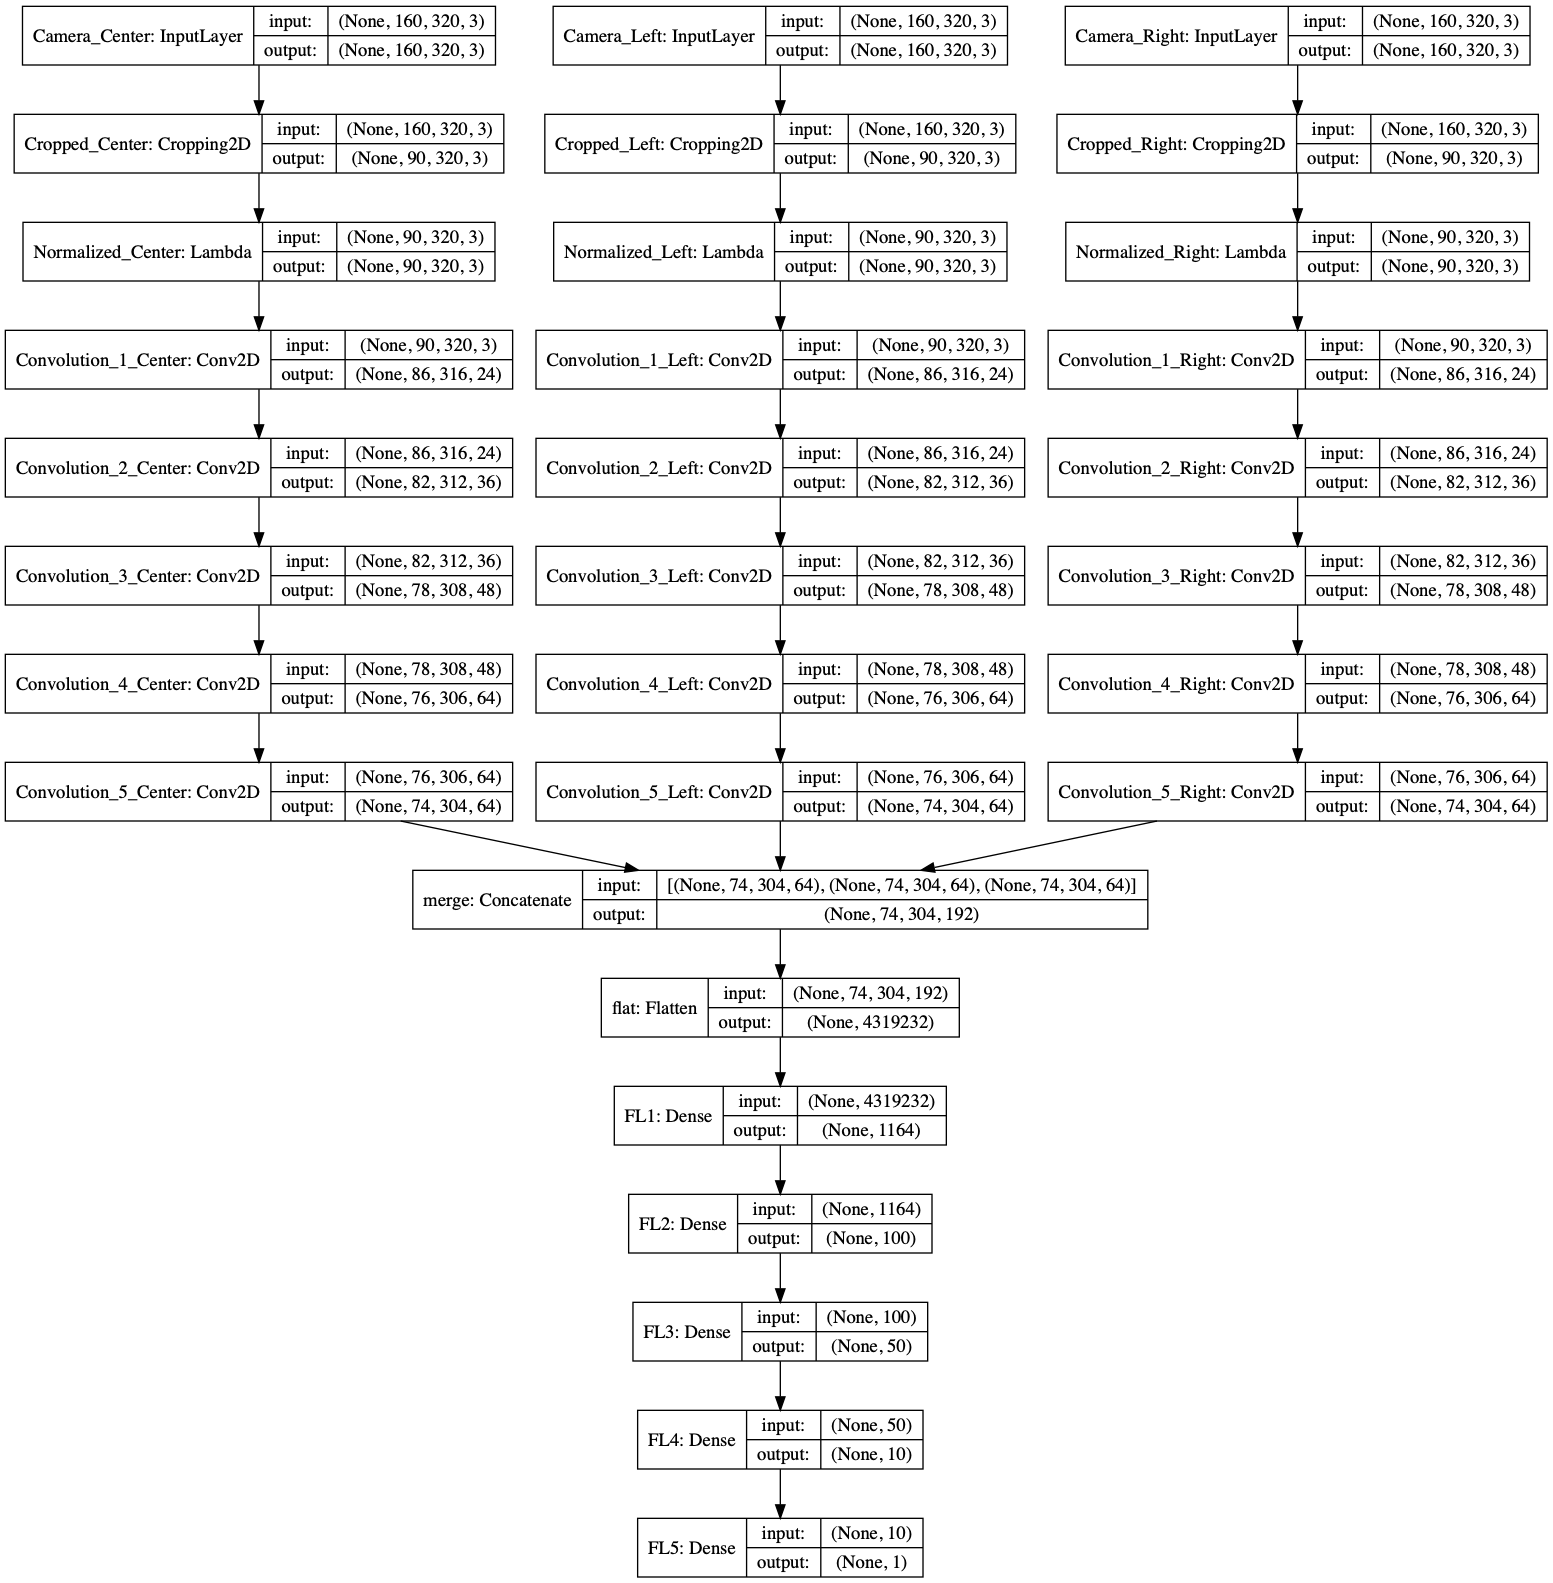
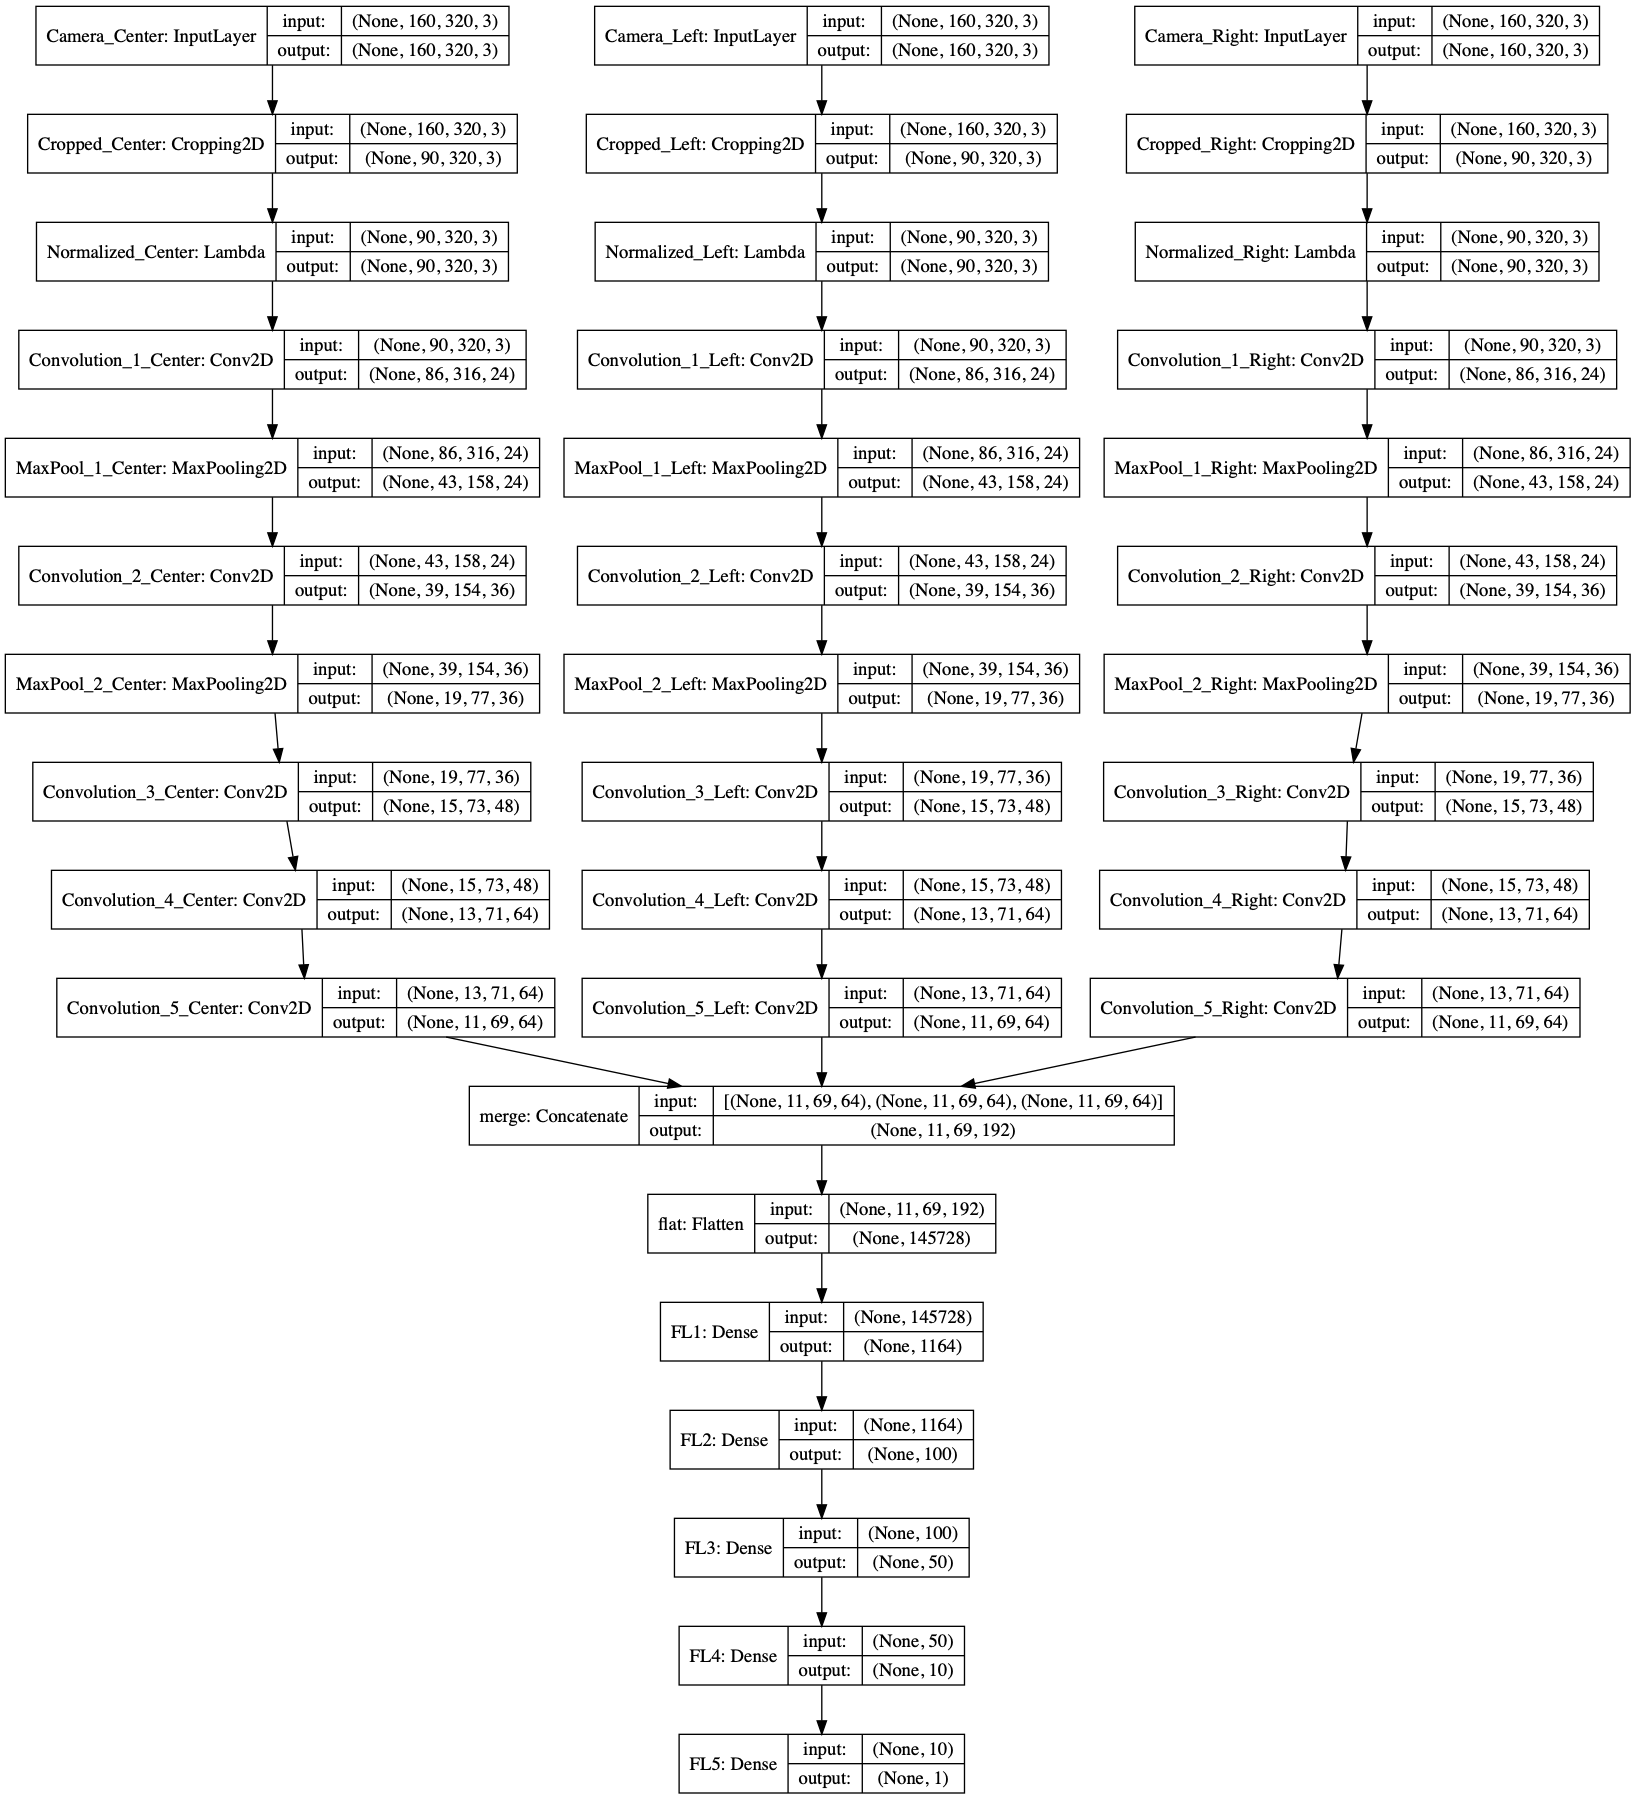
fix: Lighter network version so that the script doesn't crash

Changed region(s): [[0.0, 0.0, 1.0, 1.0]]

diff --git a/trainer.py b/trainer.py
@@ -46,7 +46,8 @@ print("---Behaviour Clonning Trainer Application---")
 
 #Load Data
 
-DATA_PATH = '/opt/carnd_p3/data/'
+#DATA_PATH = '/opt/carnd_p3/data/'
+DATA_PATH = '../data/'
 
 lines = []
 with open(DATA_PATH + 'driving_log.csv') as csvfile:
@@ -196,8 +197,12 @@ normalizedInput = sm.normalize(cropInput, name="Normalized")
 
 
 convolution1 = sm.convolution(normalizedInput,  24  , (5,5)  , activationFunction='relu',  name="Convolution_1")
-convolution2 = sm.convolution(convolution1,     36  , (5,5)  , activationFunction='relu',  name="Convolution_2")
-convolution3 = sm.convolution(convolution2,     48  , (5,5)  , activationFunction='relu',  name="Convolution_3")
+maxPool1 = sm.maxPooling(convolution1 ,(2,2), name="MaxPool_1")
+
+convolution2 = sm.convolution(maxPool1,     36  , (5,5)  , activationFunction='relu',  name="Convolution_2")
+maxPool2 = sm.maxPooling(convolution2 ,(2,2), name="MaxPool_2")
+
+convolution3 = sm.convolution(maxPool2,     48  , (5,5)  , activationFunction='relu',  name="Convolution_3")
 convolution4 = sm.convolution(convolution3,     64  , (3,3)  , activationFunction='relu',  name="Convolution_4")
 convolution5 = sm.convolution(convolution4,     64  , (3,3)  , activationFunction='relu',  name="Convolution_5")
 
